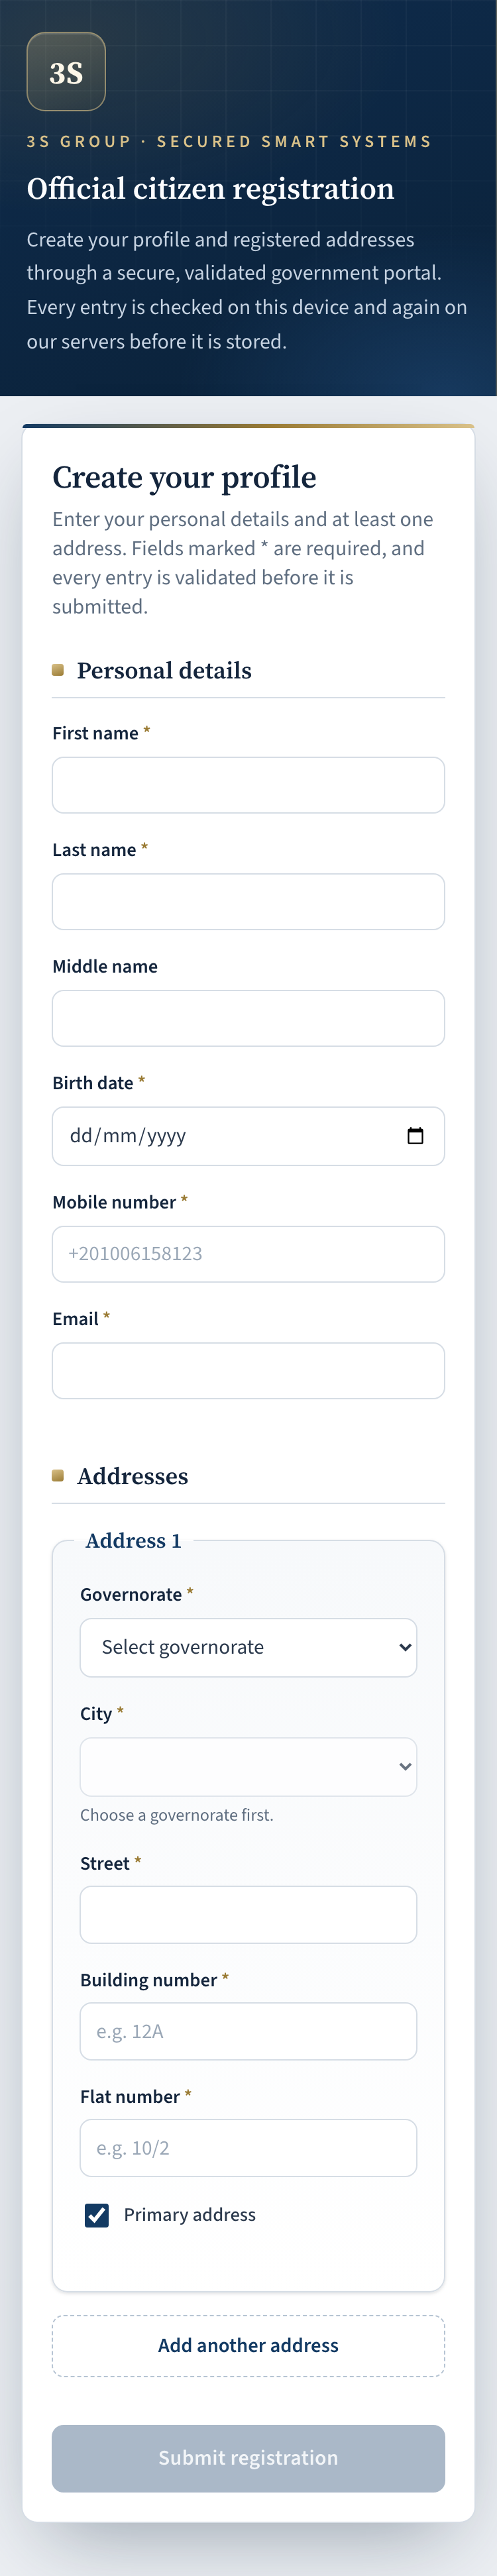
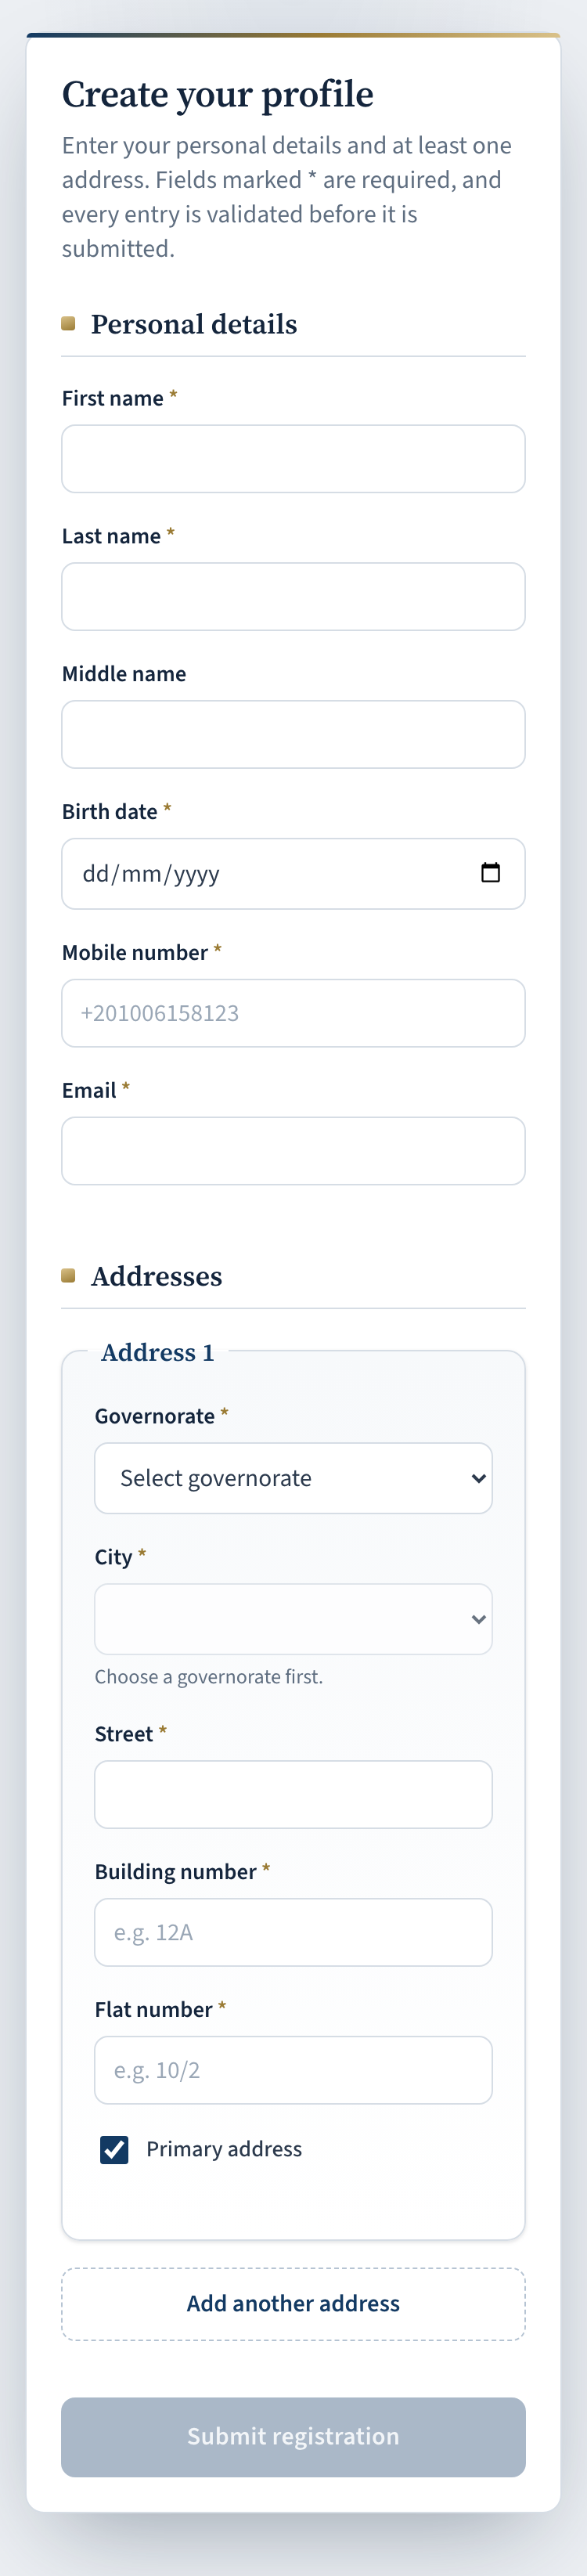
refactor(frontend): remove brand side panel, center the two-column form

diff --git a/frontend/src/styles.css b/frontend/src/styles.css
@@ -66,132 +66,17 @@ body {
 }
 
 /* ----------------------------------------------------------------------------
-   Two-pane shell: brand panel on the left, the form on the right. Collapses to
-   a single stacked column under 900px.
+   Page: a single, centered two-column form on a calm canvas (no side panel).
    ------------------------------------------------------------------------- */
-.app-shell {
+.page {
   min-height: 100dvh;
-  display: grid;
-  grid-template-columns: clamp(300px, 34%, 460px) 1fr;
-}
-
-/* --- left brand pane --- */
-.brand-pane {
-  position: relative;
-  overflow: hidden;
-  color: #eaf0f7;
-  background:
-    radial-gradient(120% 80% at 15% 10%, rgba(154, 123, 52, 0.18), transparent 55%),
-    radial-gradient(90% 70% at 90% 100%, rgba(38, 86, 140, 0.45), transparent 60%),
-    linear-gradient(160deg, var(--brand-700) 0%, var(--brand-900) 100%);
-  border-right: 1px solid rgba(217, 193, 137, 0.30);
-}
-
-/* faint engraved grid texture for an official, document-like feel */
-.brand-pane::before {
-  content: '';
-  position: absolute;
-  inset: 0;
-  background-image:
-    linear-gradient(rgba(255, 255, 255, 0.035) 1px, transparent 1px),
-    linear-gradient(90deg, rgba(255, 255, 255, 0.035) 1px, transparent 1px);
-  background-size: 34px 34px;
-  mask-image: radial-gradient(120% 100% at 50% 0%, #000 35%, transparent 85%);
-  pointer-events: none;
-}
-
-.brand-inner {
-  position: sticky;
-  top: 0;
-  display: flex;
-  flex-direction: column;
-  gap: 1.2rem;
-  padding: clamp(1.75rem, 4vw, 3rem);
-  min-height: 100dvh;
-}
-
-.brand-mark {
-  width: 60px;
-  height: 60px;
-  display: grid;
-  place-items: center;
-  border-radius: 14px;
-  font-family: var(--font-display);
-  font-weight: 700;
-  font-size: 1.5rem;
-  letter-spacing: 0.02em;
-  color: #fdf7e8;
-  background: linear-gradient(160deg, rgba(217, 193, 137, 0.25), rgba(154, 123, 52, 0.10));
-  border: 1px solid rgba(217, 193, 137, 0.55);
-  box-shadow: inset 0 1px 0 rgba(255, 255, 255, 0.15);
-}
-
-.brand-org {
-  margin: 0;
-  font-size: 0.82rem;
-  font-weight: 600;
-  letter-spacing: 0.22em;
-  text-transform: uppercase;
-  color: var(--gold-200);
-}
-
-.brand-headline {
-  margin: 0;
-  font-family: var(--font-display);
-  font-weight: 600;
-  font-size: clamp(1.7rem, 2.4vw, 2.4rem);
-  line-height: 1.12;
-  color: #fbfcfe;
-}
-
-.brand-sub {
-  margin: 0;
-  max-width: 34ch;
-  color: #c6d3e2;
-  line-height: 1.6;
-}
-
-.brand-points {
-  list-style: none;
-  margin: 0.4rem 0 0;
-  padding: 0;
-  display: grid;
-  gap: 0.7rem;
-}
-
-.brand-points li {
-  display: flex;
-  align-items: center;
-  gap: 0.65rem;
-  font-size: 0.95rem;
-  color: #d7e1ec;
-}
-
-.brand-points li::before {
-  content: '';
-  flex: none;
-  width: 18px;
-  height: 18px;
-  border-radius: 50%;
-  background:
-    linear-gradient(160deg, var(--gold-200), var(--gold));
-  box-shadow: 0 0 0 4px rgba(217, 193, 137, 0.12);
-}
-
-.brand-foot {
-  margin-top: auto;
-  padding-top: 1.5rem;
-  font-size: 0.8rem;
-  color: #9fb1c6;
-  border-top: 1px solid rgba(217, 193, 137, 0.20);
-}
-
-/* --- right form pane --- */
-.form-pane {
   display: flex;
   justify-content: center;
   align-items: flex-start;
-  padding: clamp(1.25rem, 4vw, 3.25rem) clamp(1rem, 4vw, 3rem);
+  padding: clamp(1.5rem, 5vw, 4rem) clamp(1rem, 4vw, 2rem);
+  background:
+    radial-gradient(75% 55% at 50% -8%, rgba(19, 58, 99, 0.07), transparent 60%),
+    var(--canvas);
 }
 
 .registration-form {
@@ -546,22 +431,6 @@ section {
   .address-card {
     animation: riseIn 0.4s cubic-bezier(0.22, 0.61, 0.36, 1) both;
   }
-
-  .brand-inner > * {
-    animation: riseIn 0.6s cubic-bezier(0.22, 0.61, 0.36, 1) both;
-  }
-  .brand-inner > *:nth-child(2) {
-    animation-delay: 0.06s;
-  }
-  .brand-inner > *:nth-child(3) {
-    animation-delay: 0.12s;
-  }
-  .brand-inner > *:nth-child(4) {
-    animation-delay: 0.18s;
-  }
-  .brand-inner > *:nth-child(5) {
-    animation-delay: 0.24s;
-  }
 }
 
 @media (prefers-reduced-motion: reduce) {
@@ -577,33 +446,10 @@ section {
    Responsive: collapse the two-pane shell into a single stacked column. The
    brand pane becomes a compact header band.
    ------------------------------------------------------------------------- */
-@media (max-width: 900px) {
-  .app-shell {
-    grid-template-columns: 1fr;
-  }
-
-  .brand-inner {
-    position: static;
-    min-height: 0;
-    gap: 0.85rem;
-    padding: 1.5rem 1.25rem 1.75rem;
-  }
-
-  .brand-points,
-  .brand-foot {
-    display: none;
-  }
-
-  .brand-headline {
-    font-size: 1.45rem;
-  }
-
-  .brand-sub {
-    max-width: none;
-  }
-
-  .form-pane {
+@media (max-width: 720px) {
+  .page {
     padding: 1.25rem 1rem 2.5rem;
+    align-items: stretch;
   }
 }
 

diff --git a/frontend/src/App.tsx b/frontend/src/App.tsx
@@ -1,36 +1,10 @@
 import { RegistrationForm } from './components/RegistrationForm';
 
-// Two-pane shell: a formal brand/intro panel on the left and the form on the
-// right. Collapses to a single stacked column under 900px (see styles.css). The
-// brand headline is a styled <p>, not a heading, so the form keeps the single
-// <h1> on the page for a clean document outline.
+// A single, centered two-column registration form on a calm canvas.
 export default function App() {
   return (
-    <div className="app-shell">
-      <aside className="brand-pane" aria-label="3S GROUP — Secured Smart Systems">
-        <div className="brand-inner">
-          <div className="brand-mark" aria-hidden="true">
-            3S
-          </div>
-          <p className="brand-org">3S GROUP · Secured Smart Systems</p>
-          <p className="brand-headline">Official citizen registration</p>
-          <p className="brand-sub">
-            Create your profile and registered addresses through a secure,
-            validated government portal. Every entry is checked on this device and
-            again on our servers before it is stored.
-          </p>
-          <ul className="brand-points">
-            <li>Validated on your device and on the server</li>
-            <li>Every request audited and correlation-logged</li>
-            <li>Privacy-first — sensitive data is never exposed</li>
-          </ul>
-          <p className="brand-foot">© 3S GROUP · Secured Smart Systems</p>
-        </div>
-      </aside>
-
-      <main className="page form-pane">
-        <RegistrationForm />
-      </main>
-    </div>
+    <main className="page">
+      <RegistrationForm />
+    </main>
   );
 }